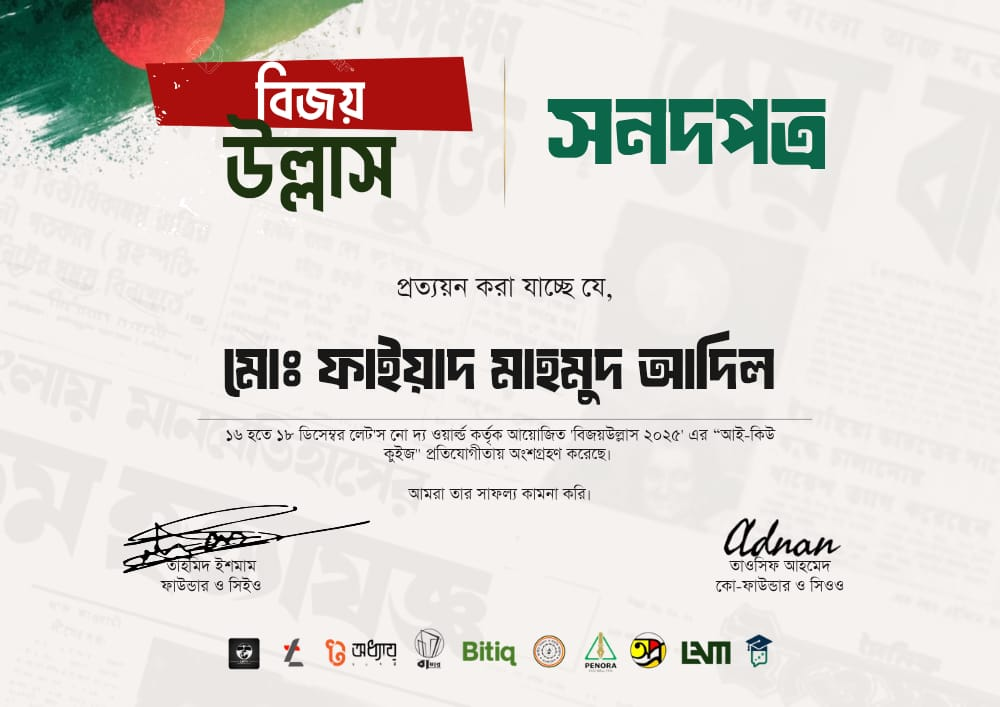
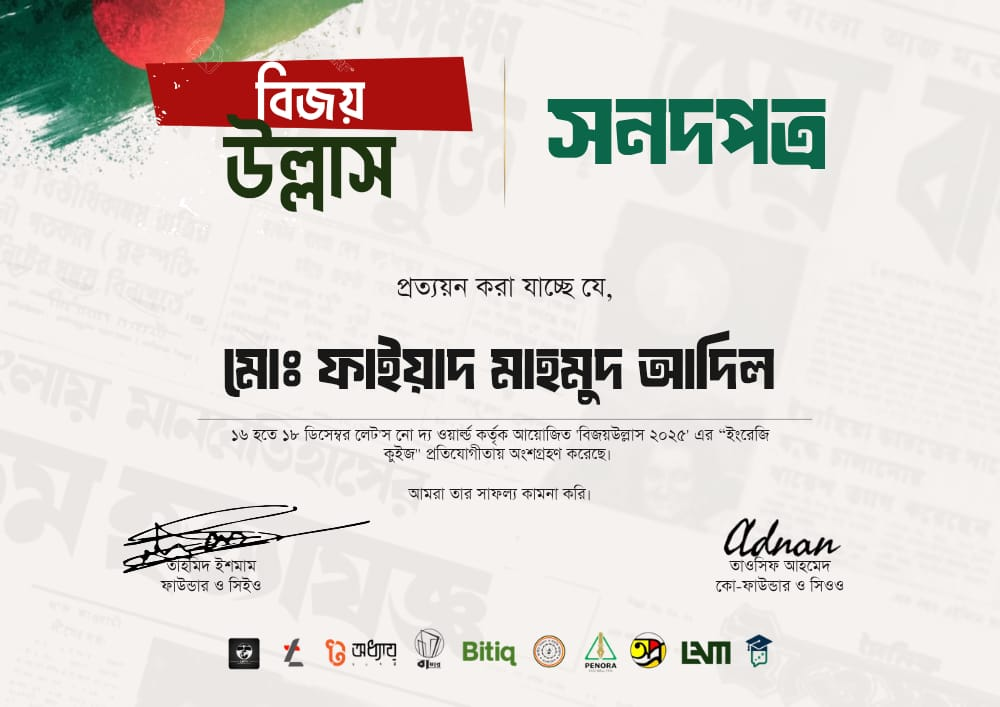
Add issuer URLs and update portfolio branding
Rename site branding and metadata (README.md, index.html) to "It'z RJ Portfolio" and update meta tags. Add optional issuerUrl to Certificate type and populate certificate entries with issuer links (src/data/portfolio.ts). Update CertificatesSection to render issuer as an external link with underline/hover styles when issuerUrl is present (src/components/CertificatesSection.tsx). Replace several certificate image files with updated versions.

Changed region(s): [[0.217, 0.5912, 0.775, 0.6223]]

diff --git a/src/data/portfolio.ts b/src/data/portfolio.ts
@@ -15,6 +15,7 @@ export interface Certificate {
   id: string;
   title: string;
   issuer: string;
+  issuerUrl?: string;
   date: string;
   image: string;
 }
@@ -107,11 +108,46 @@ export const projects: Project[] = [
 ];
 
 export const certificates: Certificate[] = [
-  { id: "cert-1", title: "Introduction to HTML", issuer: "Sololearn", date: "2025", image: "/src/images/Certificate/cert1.png" },
-  { id: "cert-2", title: "AI Magic & Content Creation", issuer: "ICT Olympiad Bangladesh", date: "2026", image: "/src/images/Certificate/cert2.png" },
-  { id: "cert-3", title: "Participation in General Knowledge Quiz", issuer: "Let's Know The World", date: "2025", image: "/src/images/Certificate/cert3.png" },
-  { id: "cert-4", title: "Participation in IQ Quiz", issuer: "Let's Know The World", date: "2025", image: "/src/images/Certificate/cert4.png" },
-  { id: "cert-5", title: "Participation in English Quiz", issuer: "Let's Know The World", date: "2025", image: "/src/images/Certificate/cert5.png" },
+  {
+    id: "cert-1",
+    title: "Introduction to HTML",
+    issuer: "Sololearn",
+    issuerUrl: "https://www.sololearn.com/",
+    date: "2025",
+    image: "/src/images/Certificate/cert1.png",
+  },
+  {
+    id: "cert-2",
+    title: "Participation in General Knowledge Quiz",
+    issuer: "Let's Know The World",
+    issuerUrl: "https://www.facebook.com/Letsknowtheworldofficial/",
+    date: "2025",
+    image: "/src/images/Certificate/cert2.png",
+  },
+  {
+    id: "cert-3",
+    title: "Participation in IQ Quiz",
+    issuer: "Let's Know The World",
+    issuerUrl: "https://www.facebook.com/Letsknowtheworldofficial/",
+    date: "2025",
+    image: "/src/images/Certificate/cert3.png",
+  },
+  {
+    id: "cert-4",
+    title: "Participation in English Quiz",
+    issuer: "Let's Know The World",
+    issuerUrl: "https://www.facebook.com/Letsknowtheworldofficial/",
+    date: "2025",
+    image: "/src/images/Certificate/cert4.png",
+  },
+  {
+    id: "cert-5",
+    title: "AI Magic & Content Creation",
+    issuer: "ICT Olympiad Bangladesh",
+    issuerUrl: "https://www.ictolympiadbangladesh.com/",
+    date: "2026",
+    image: "/src/images/Certificate/cert5.png",
+  },
 ];
 
 export const skillCategories: SkillCategory[] = [

diff --git a/src/components/CertificatesSection.tsx b/src/components/CertificatesSection.tsx
@@ -94,7 +94,20 @@ const CertificatesSection = () => {
                   </div>
                   <div className="p-6 text-center">
                     <h3 className="font-display text-xl font-bold text-foreground mb-1">{cert.title}</h3>
-                    <p className="text-muted-foreground">{cert.issuer}</p>
+                    <p className="text-muted-foreground">
+                      {cert.issuerUrl ? (
+                        <a
+                          href={cert.issuerUrl}
+                          target="_blank"
+                          rel="noreferrer"
+                          className="underline underline-offset-2 decoration-dotted hover:decoration-solid hover:text-foreground"
+                        >
+                          {cert.issuer}
+                        </a>
+                      ) : (
+                        cert.issuer
+                      )}
+                    </p>
                     <p className="text-primary text-sm mt-1">{cert.date}</p>
                   </div>
                 </>

diff --git a/index.html b/index.html
@@ -4,15 +4,13 @@
     <meta charset="UTF-8" />
     <meta name="viewport" content="width=device-width, initial-scale=1.0" />
     <!-- Document title and metadata -->
-    <title>RJ&apos;s Blue Spark</title>
-    <meta name="description" content="RJ&apos;s Blue Spark - personal portfolio and project showcase." />
-    <meta name="author" content="RJ&apos;s Blue Spark" />
+    <title>It'z RJ's Portfolio</title>
+    <meta name="description" content="It'z RJ's Portfolio - Personal portfolio and project showcase." />
+    <meta name="author" content="It'z RJ" />
 
-    <meta property="og:title" content="RJ&apos;s Blue Spark" />
+    <meta property="og:title" content="It'z RJ's Portfolio" />
     <meta property="og:description" content="Personal portfolio and project showcase." />
     <meta property="og:type" content="website" />
-
-    <meta name="twitter:card" content="summary_large_image" />
   </head>
 
   <body>

diff --git a/README.md b/README.md
@@ -1,6 +1,6 @@
-# RJ&apos;s Blue Spark
+# It&apos;z RJ Portfolio
 
-This repository contains the source code for the **RJ&apos;s Blue Spark** portfolio and project showcase site.
+This repository contains the source code for **It&apos;z RJ Portfolio** – a personal portfolio website to showcase projects, skills, and contact information.
 
 ## Getting started
 
